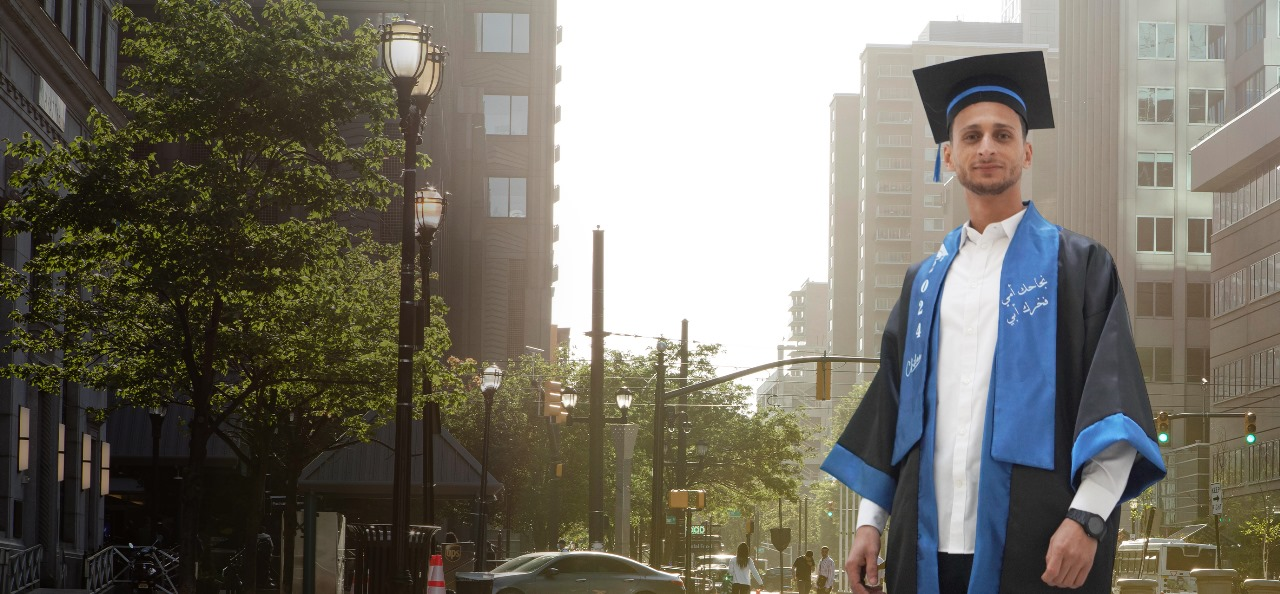
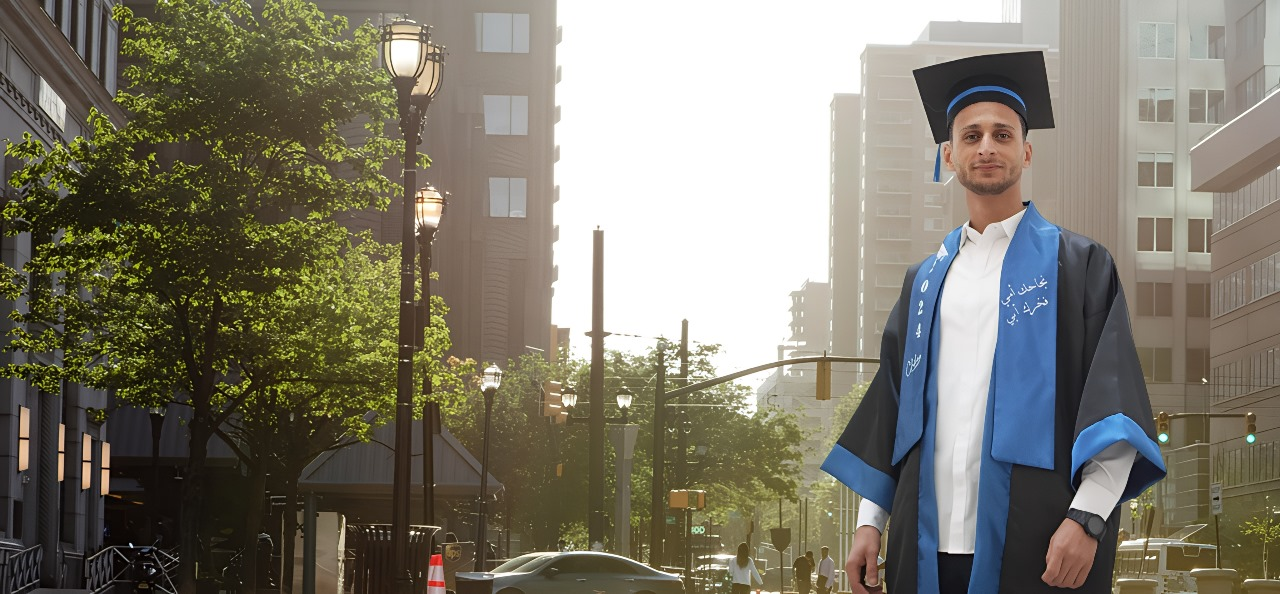
mobile browsers responivness with bg img

diff --git a/css/style.css b/css/style.css
@@ -241,7 +241,7 @@ nav ul li a {
 
 #header {
   background: url("../images/home-bg.jpeg") repeat scroll center center / cover;
-  height: 100vh;
+  height: 100%;
   width: 100%;
 }
 
